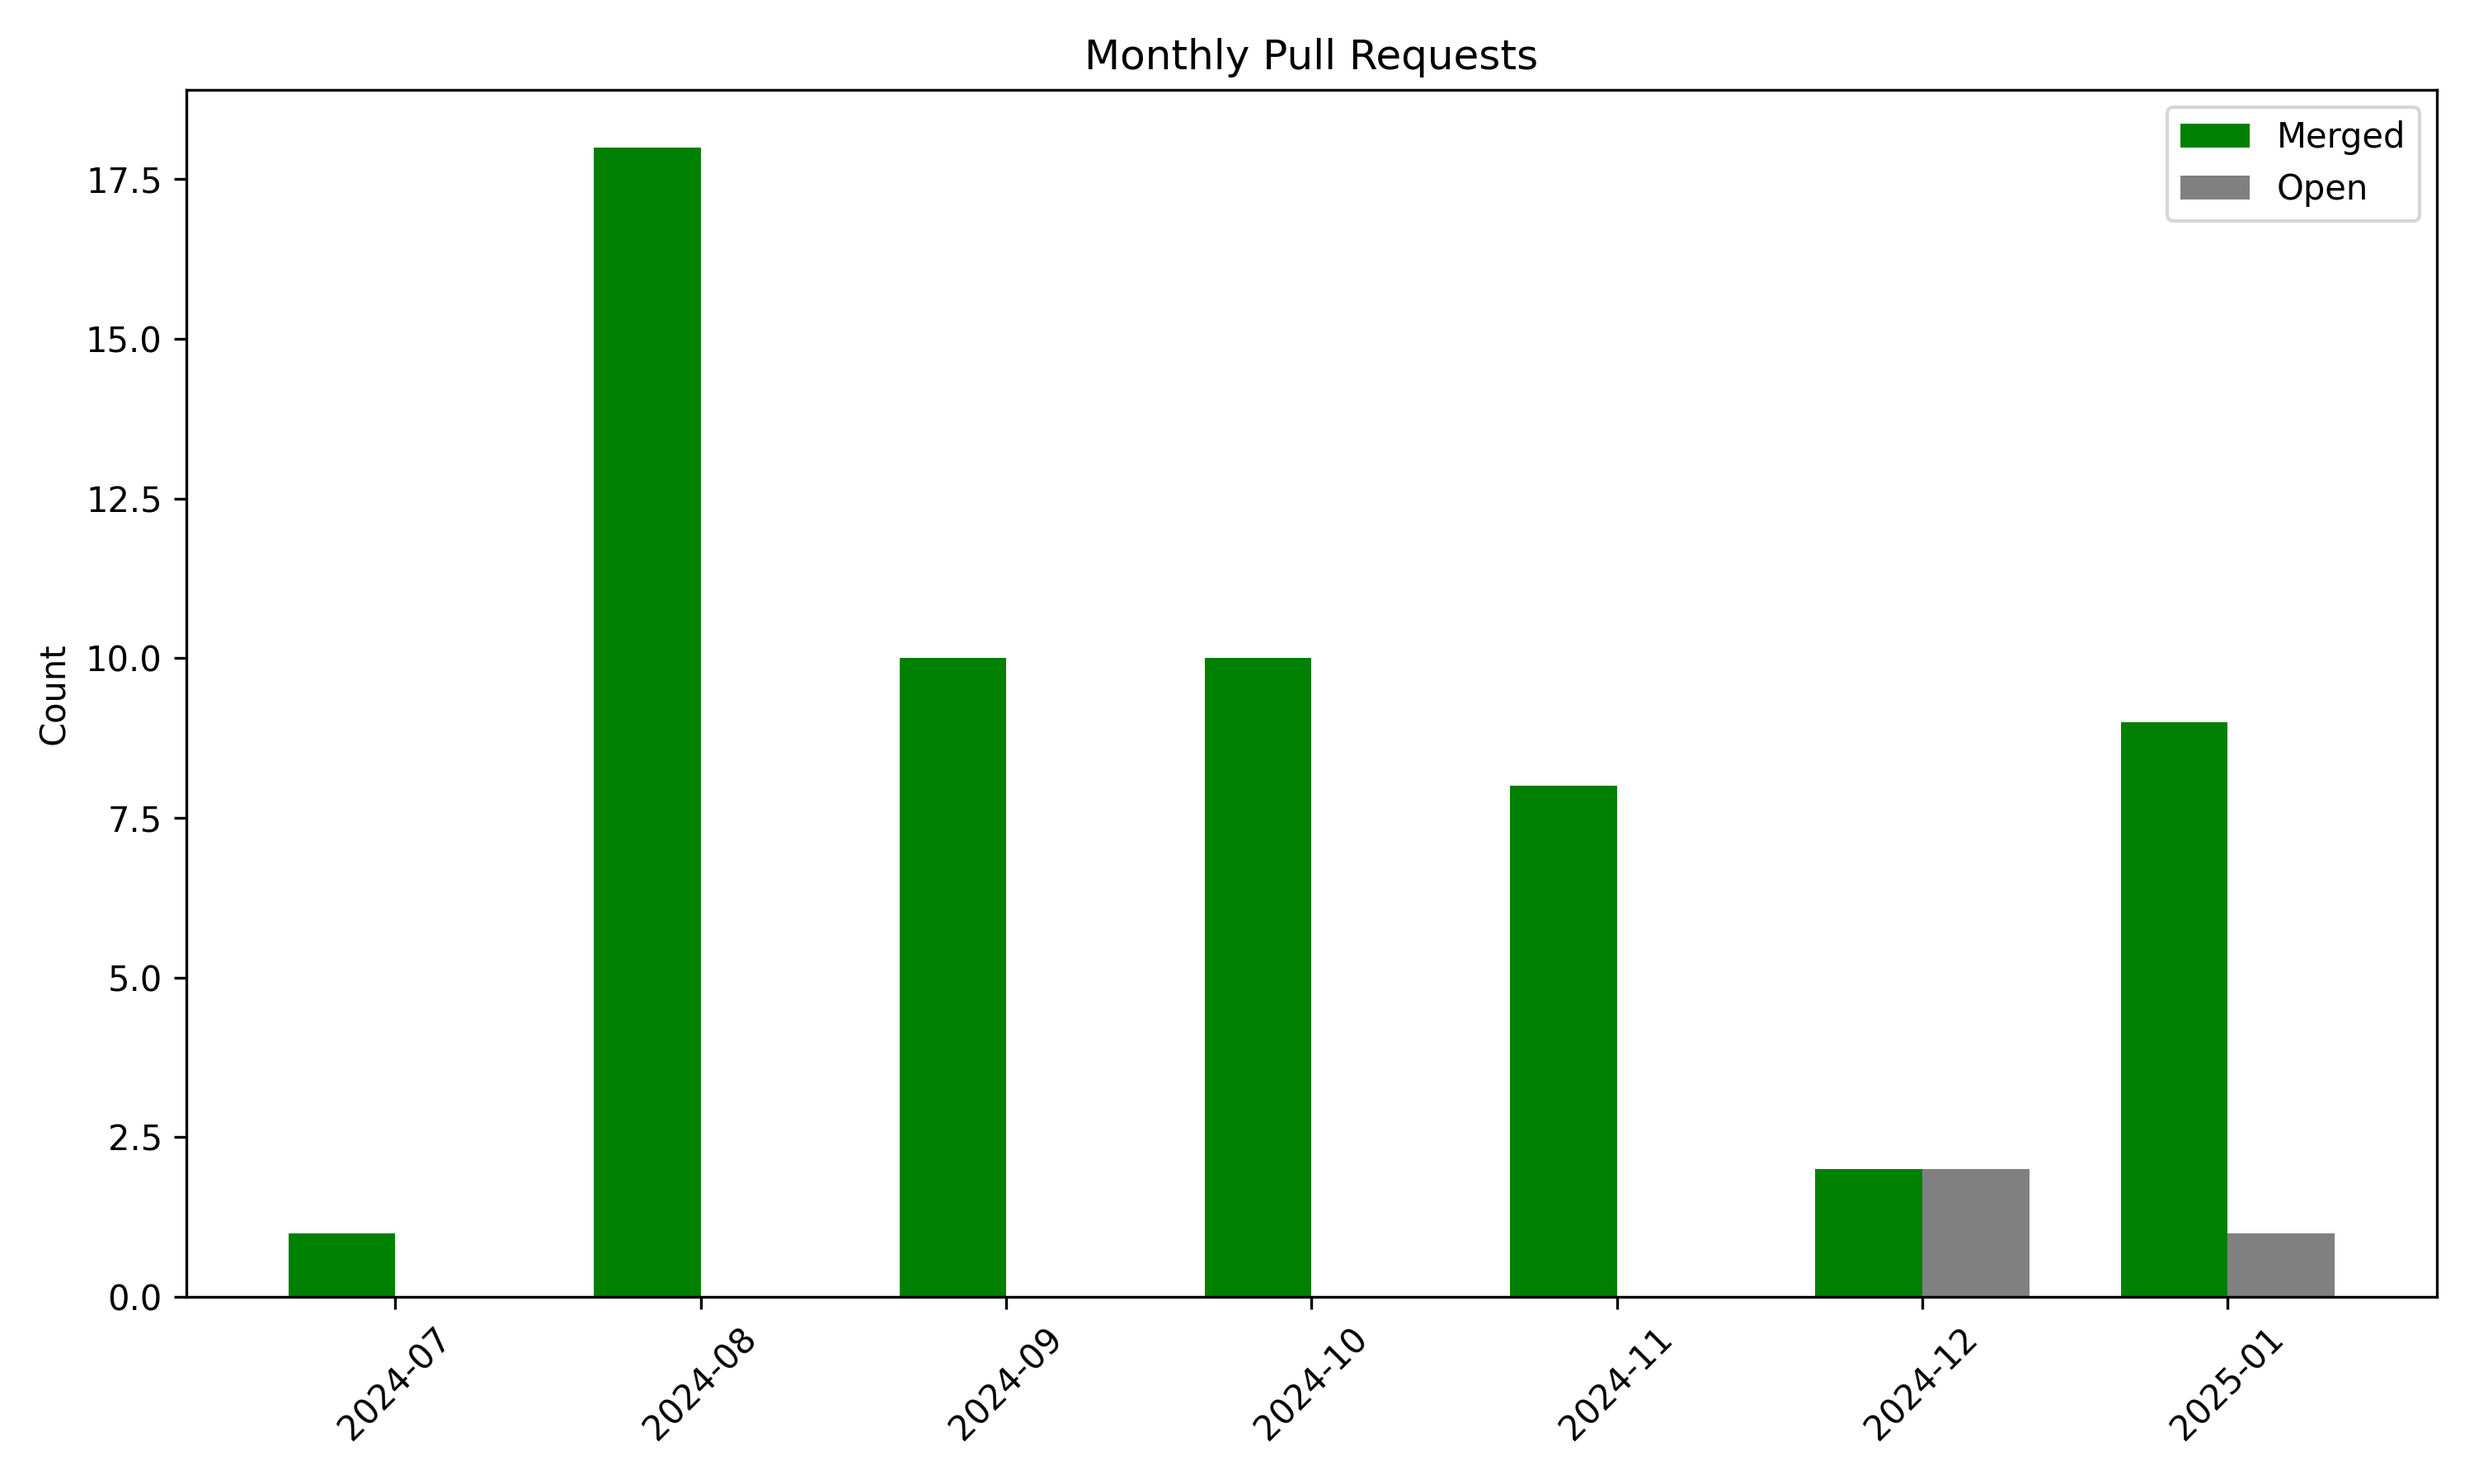
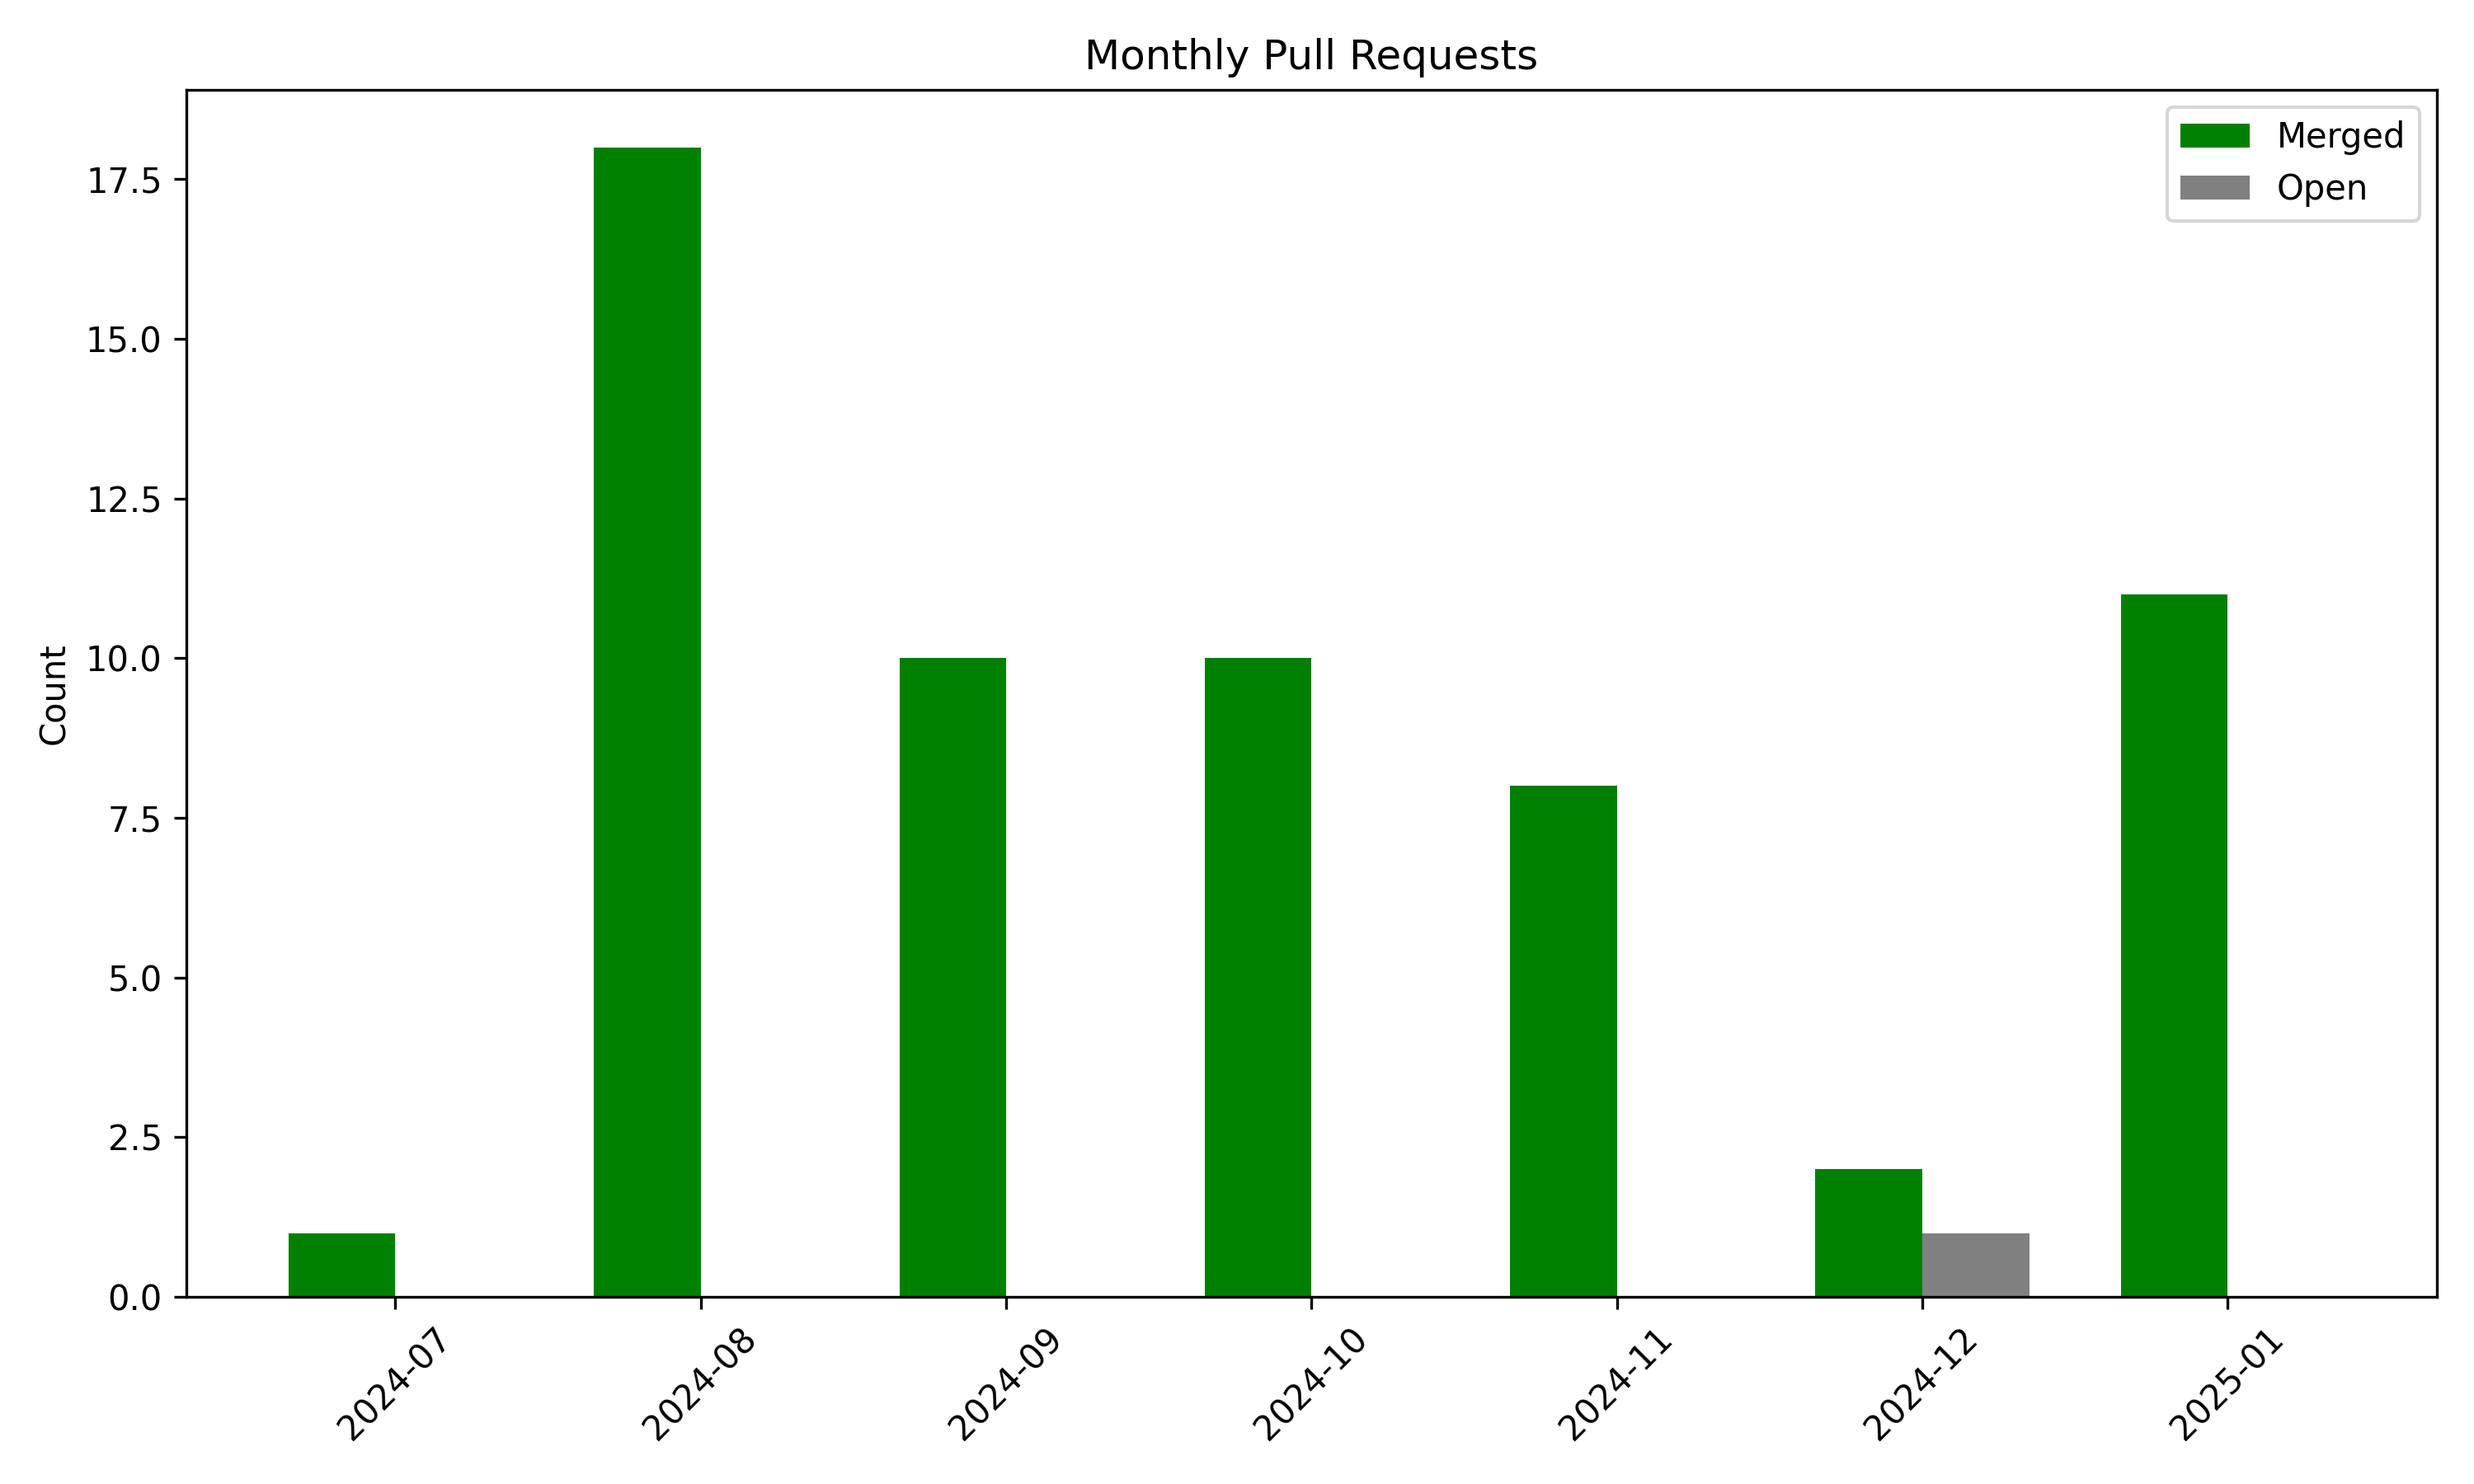
docs: 14/01/2025

Changed region(s): [[0.837, 0.3733, 0.899, 0.4978], [0.899, 0.8089, 0.961, 0.8711], [0.775, 0.7778, 0.837, 0.84]]

diff --git a/README.md b/README.md
@@ -13,10 +13,8 @@
 - [#233](https://github.com/daytonaio/docs/pull/233): docs: add sdk section to readme (merged at: 2025-01-13T08:49:25Z)
 - [#234](https://github.com/daytonaio/docs/pull/234): docs: add api keys section (merged at: 2025-01-13T16:13:01Z)
 - [#214](https://github.com/daytonaio/docs/pull/214): docs: add architecture diagram (merged at: 2025-01-13T16:51:04Z)
-
-### Open Pull Requests
-
-- [#227](https://github.com/daytonaio/docs/pull/227): docs: refactor sdk code snippets & content (created at: 2025-01-08T21:32:18Z)
+- [#205](https://github.com/daytonaio/docs/pull/205): docs: add workspace toolbox (merged at: 2025-01-14T07:44:16Z)
+- [#227](https://github.com/daytonaio/docs/pull/227): docs: refactor sdk code snippets & content (merged at: 2025-01-14T07:47:26Z)
 
 ## 2024-12
 
@@ -27,7 +25,6 @@
 
 ### Open Pull Requests
 
-- [#205](https://github.com/daytonaio/docs/pull/205): docs: add workspace toolbox (created at: 2024-12-15T00:00:53Z)
 - [#207](https://github.com/daytonaio/docs/pull/207): docs: refactor workspaces, projects, and targets (created at: 2024-12-17T00:25:33Z)
 
 ## 2024-11
